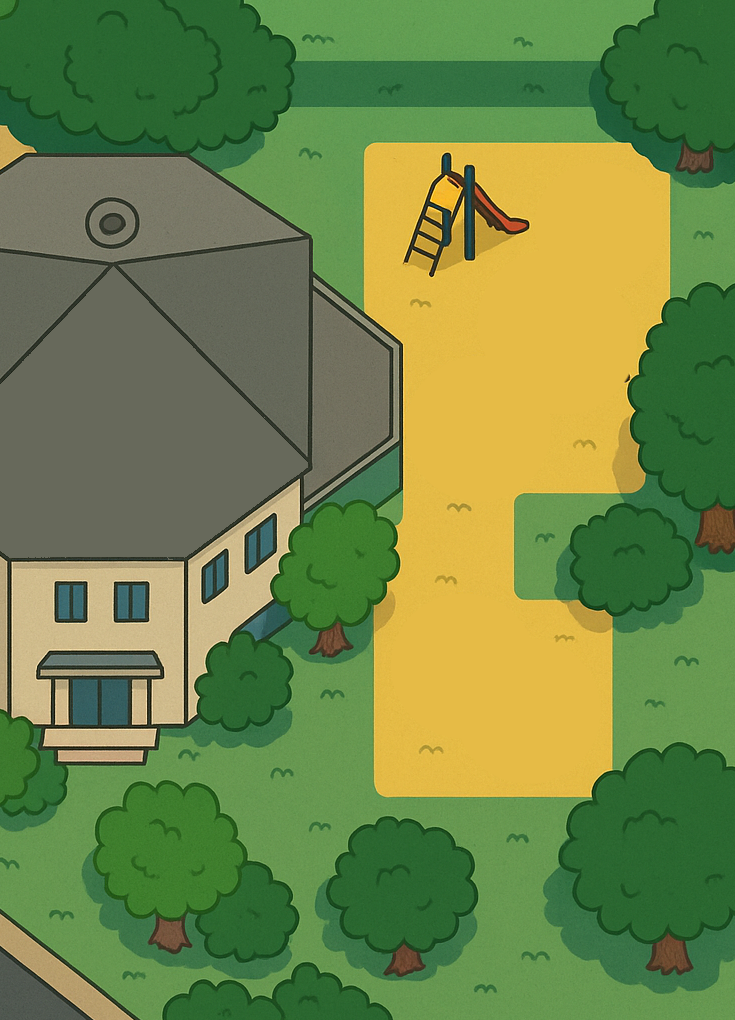
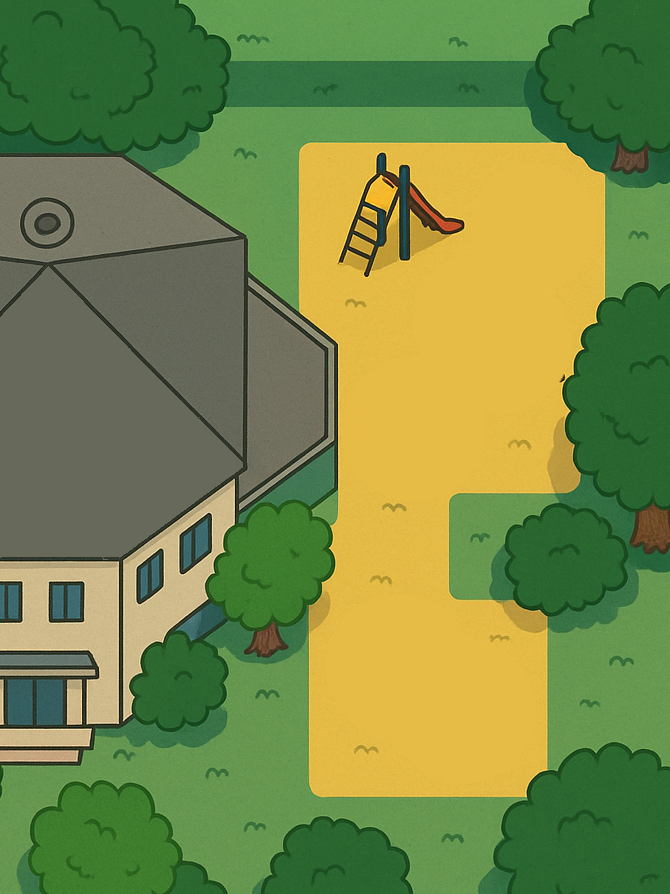
exercise update

diff --git a/index.html b/index.html
@@ -1215,7 +1215,7 @@
             if (this.gameData.background.type === "colorTiled") {
                 this.map.drawMap(Activity.activityTypeGameSettings.mapLayoutDesign.styleMap, this._gridSize);
             } else if (this.gameData.background.type === "image") {
-                this.map.drawImageBackground(this.gameData.background.image, 16 * this._gridSize, this.gameData.background.widthStartFrom);
+                this.map.drawImageBackground(this.gameData.background.image, 16 * this._gridSize);
             }
             // Now resize any existing sprites, with defensive checks
             if (this.nonInteractiveObjectsOne && Array.isArray(this.nonInteractiveObjectsOne)) {
@@ -1290,7 +1290,7 @@
                 if (this.gameData.background.type === "colorTiled") {
                     this.map.drawMap(Activity.activityTypeGameSettings.mapLayoutDesign.styleMap, this._gridSize);
                 } else if (this.gameData.background.type === "image") {
-                    this.map.drawImageBackground(this.gameData.background.image, 16 * this._gridSize, this.gameData.background.widthStartFrom);
+                    this.map.drawImageBackground(this.gameData.background.image, 16 * this._gridSize);
                 }
                 this.map.drawSprites(this.nonInteractiveObjectsOne);
                 this.map.drawSprites(this.nonInteractiveObjectsTwo);
@@ -1854,7 +1854,7 @@
             }
         }
 
-        drawImageBackground(imagePath, desiredHeight, widthStartFrom) {
+        drawImageBackground(imagePath, desiredHeight) {
             this.reset();
 
             const texture = PIXI.Texture.from(imagePath);
@@ -1863,16 +1863,8 @@
             const applyScaling = () => {
                 this.scaleToHeight(bgSprite, desiredHeight);
 
-                // Calculate cropping offset
-                const overflow = bgSprite.width - this.app.screen.width;
-
-                if (overflow > 0) {
-                    // Shift sprite left based on widthStartFrom
-                    bgSprite.x = -overflow * widthStartFrom;
-                } else {
-                    // If image fits, center it
-                    bgSprite.x = (this.app.screen.width - bgSprite.width) / 2;
-                }
+                // Center the background horizontally (optional)
+                bgSprite.x = (this.app.screen.width - bgSprite.width) / 2;
 
                 this.mapContainer.addChild(bgSprite);
             };
@@ -1883,7 +1875,6 @@
                 applyScaling();
             }
         }
-
 
         scaleToHeight(sprite, height) {
             const originalHeight = sprite.texture.height;
@@ -2660,7 +2651,6 @@
 
         async getPerson(callback) {
             let person = this.activity.environmentSprites.find(p => this.isNextTo(p) && p.notif_number !== 0);
-
             if (person) {
                 Activity.playSound(Activity.activityTypeGameSettings.sounds.succeeded);
                 if (person.notif_number > 1) {
